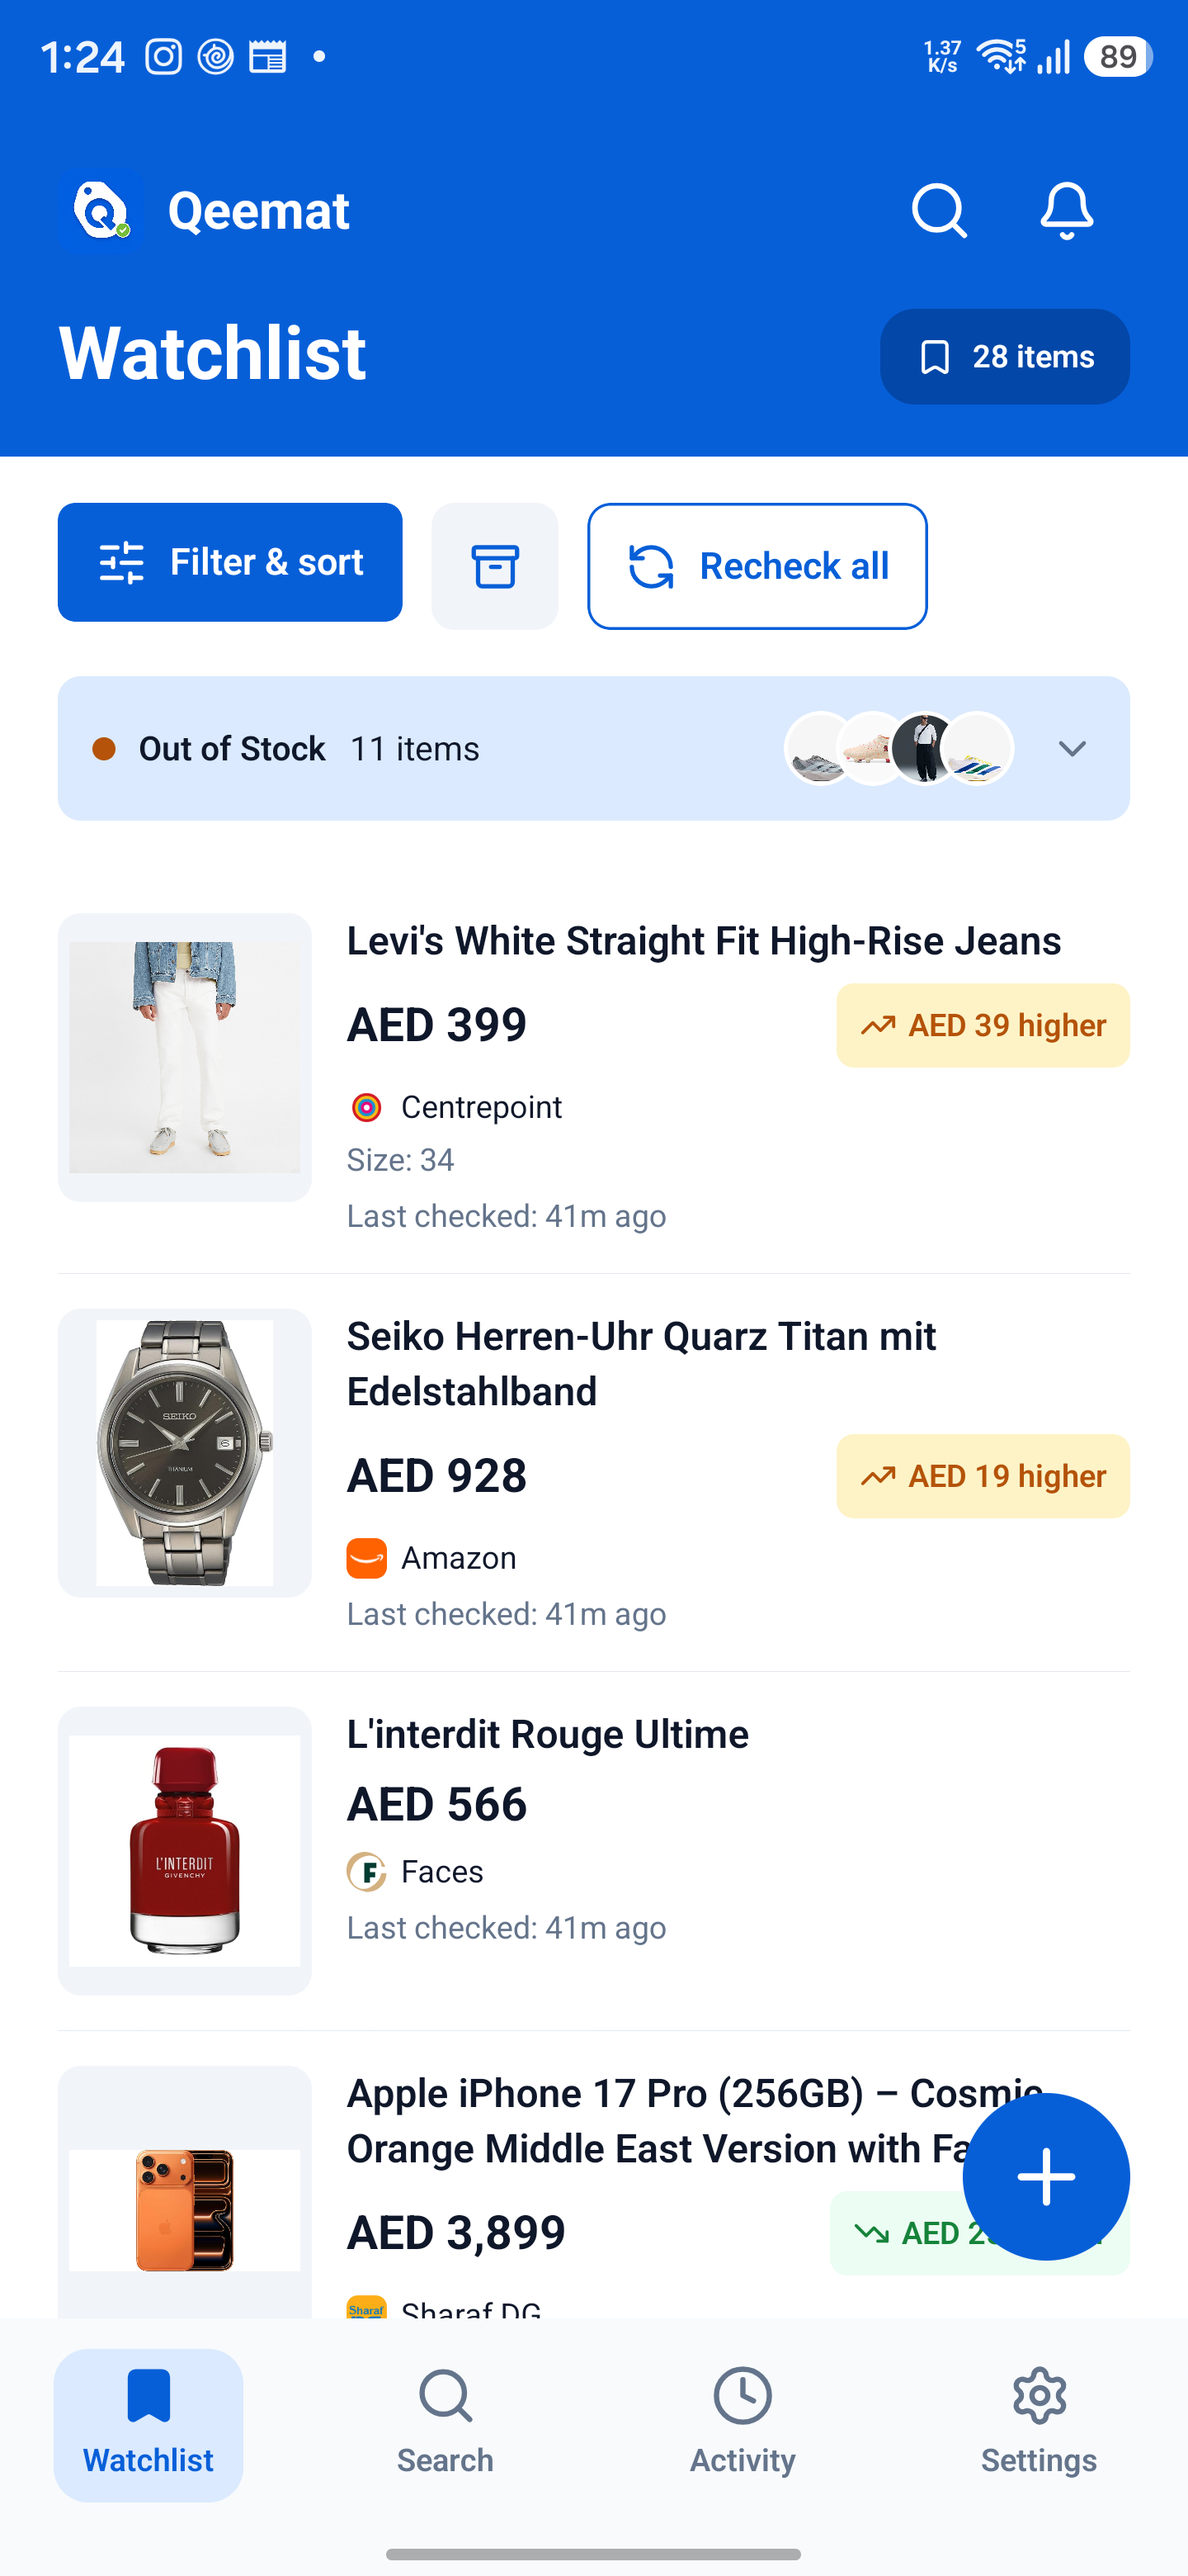
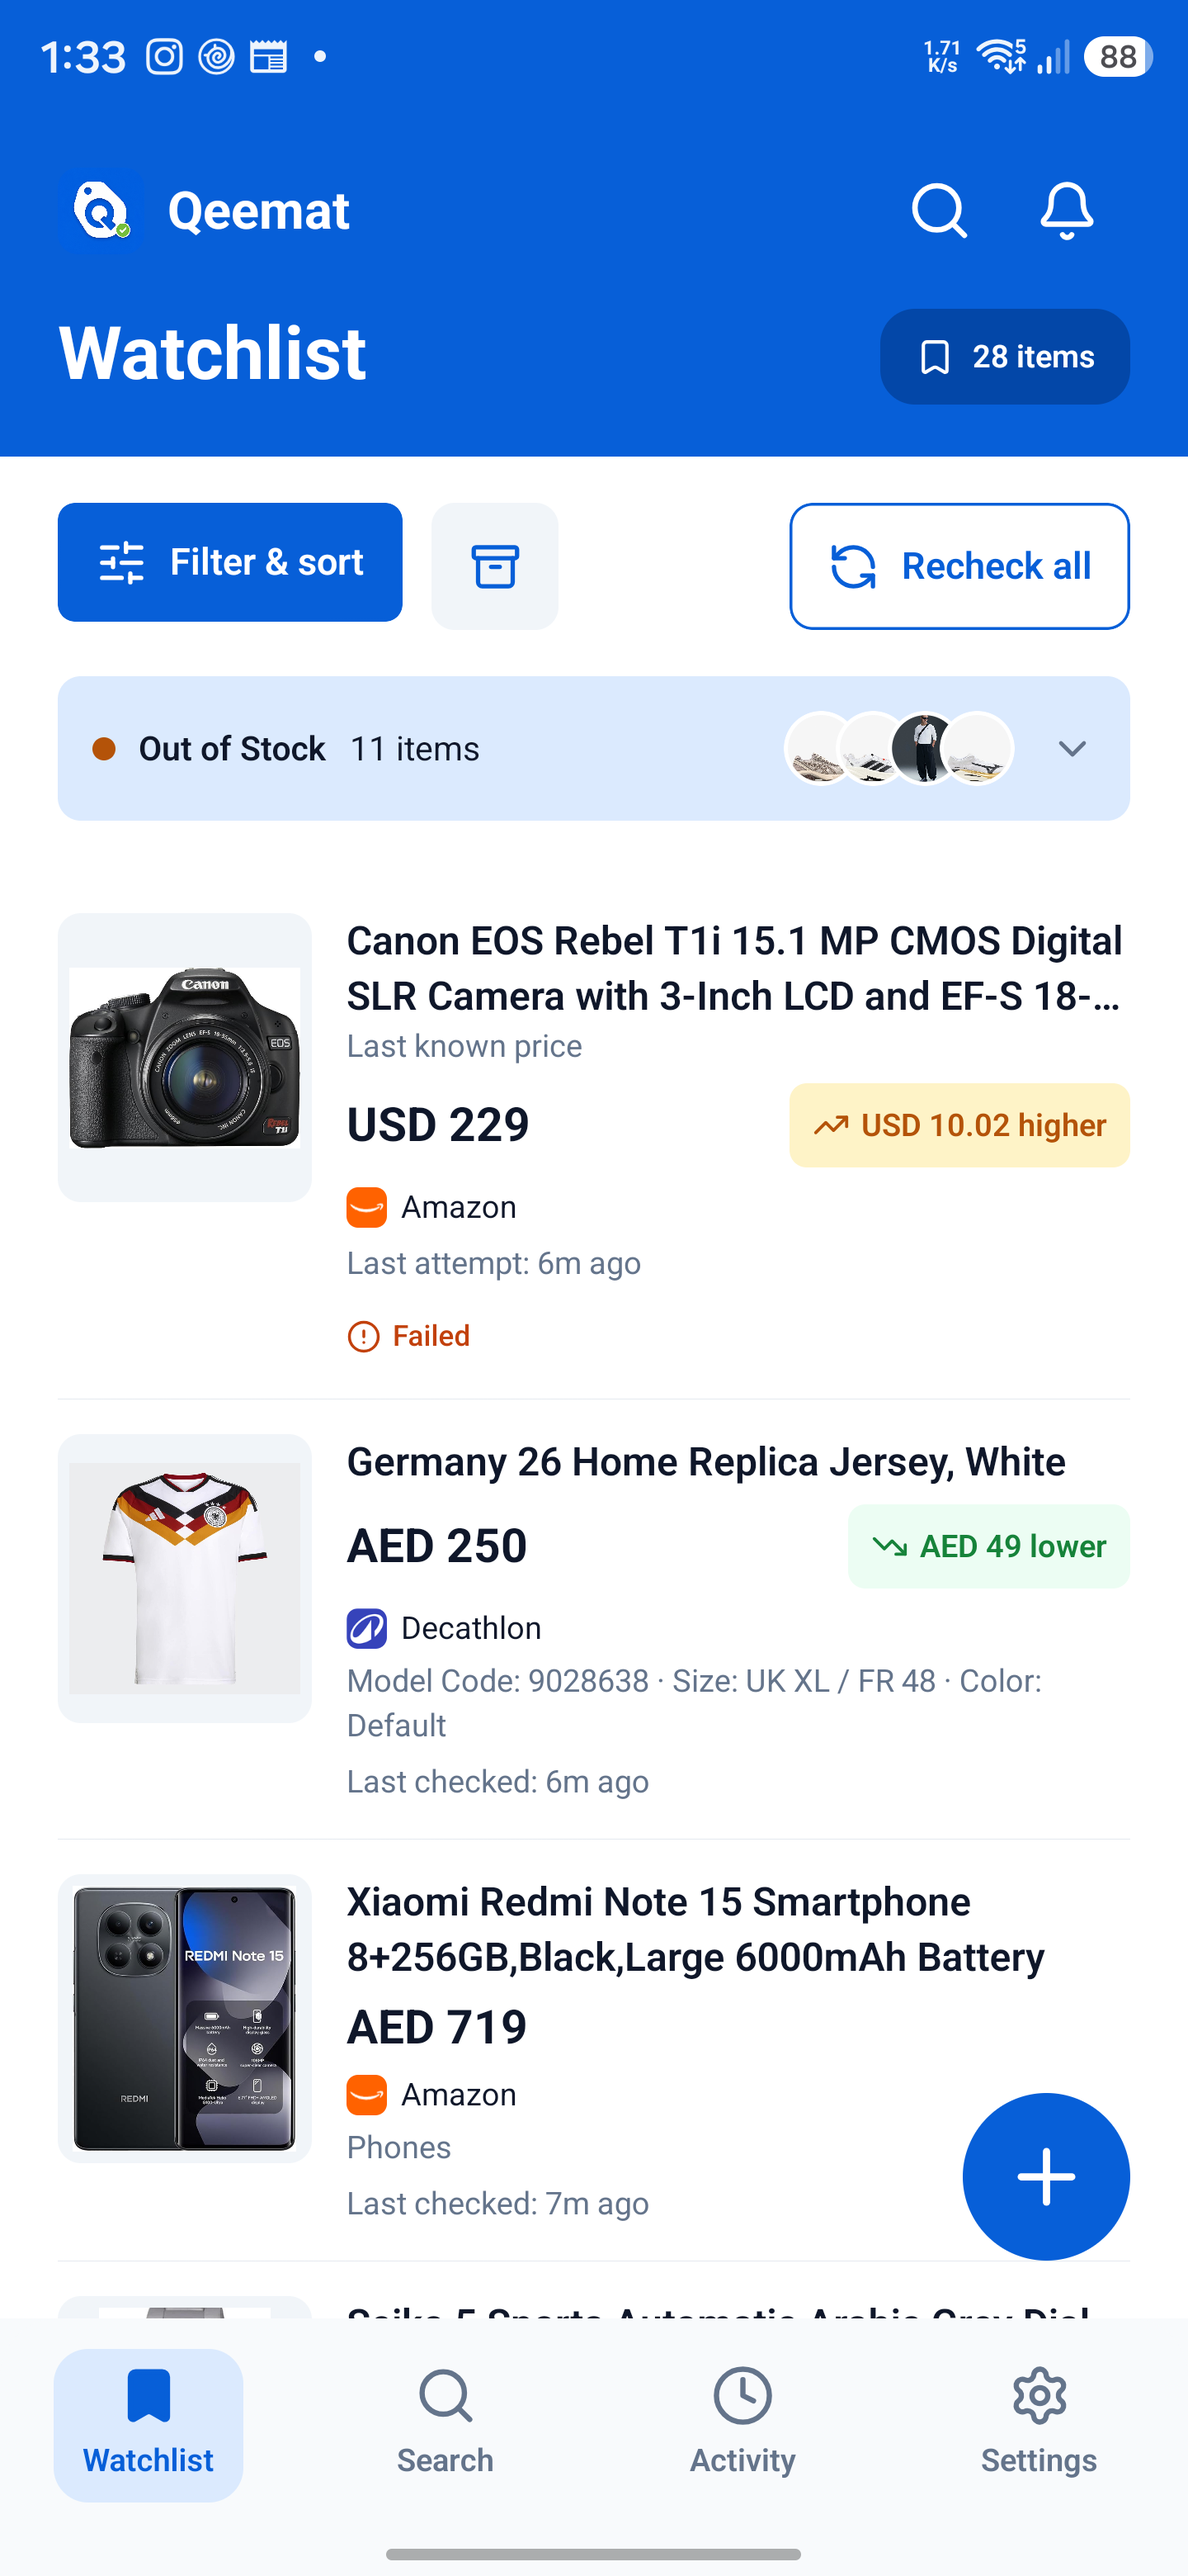
docs: refresh the right-aligned recheck evidence
Show the recheck control pinned to the far right edge of the toolbar.

diff --git a/design-qa.md b/design-qa.md
@@ -40,7 +40,7 @@ Watchlist checks were failing for Decathlon and Amazon products. Investigated on
 - **One search on Watchlist** — the blue-banner search control now opens the watchlist search itself; there is no second search control in the toolbar. The inline field filters tracked products by product name, retailer, folder and selected option (multi-word queries must all match), combines with the filters below and supports an empty state with **Clear search**. Discovery Search stays available through the bottom Search tab. [evidence](docs/assets/design-2026-11-13/watchlist-banner-search.png)
 - **Archived control** — the archived view is toggled from an icon-only toolbar button with a selected state instead of a text button. [evidence](docs/assets/design-2026-11-13/archived-icon-control.png)
 - **Multi-store filter** — the Filter & sort sheet now allows selecting any number of stores (or All stores), and the active summary lists them. Folders and sorting stay single-choice. [evidence](docs/assets/design-2026-11-13/multi-store-filter.png)
-- **Recheck placement** — `Recheck all` sits at the right end of the Watchlist toolbar with a bordered button treatment so it reads as an action instead of a text link; the checking and disabled states are unchanged. [evidence](docs/assets/design-2026-11-13/toolbar-recheck-right.png)
+- **Recheck placement** — `Recheck all` is pinned to the far right edge of the Watchlist toolbar (after a flexible spacer) and uses a bordered button treatment so it reads as an action instead of a text link; the checking and disabled states are unchanged. [evidence](docs/assets/design-2026-11-13/toolbar-recheck-right.png)
 - **Duplicate warning timing and variants** — the watchlist check now runs as soon as a product is parsed:
   - an exact duplicate (same variant id, or two page-level trackers for the same normalized URL) shows an inline amber **Duplicate product** warning that explains adding it again would create a duplicate, offers a filled **Open product** button, and disables **Confirm Tracking**; a save-time check remains as a fallback; [evidence](docs/assets/design-2026-11-13/duplicate-warning-refined.png)
   - a different option of the same product shows a blue **Adding another option** notice listing the tracked options, and is saved as its own tracker. Every variant is a separate item with its own history, which matches the existing model; no extra confirmation dialog is shown because the notice appears before the user reaches the button.
